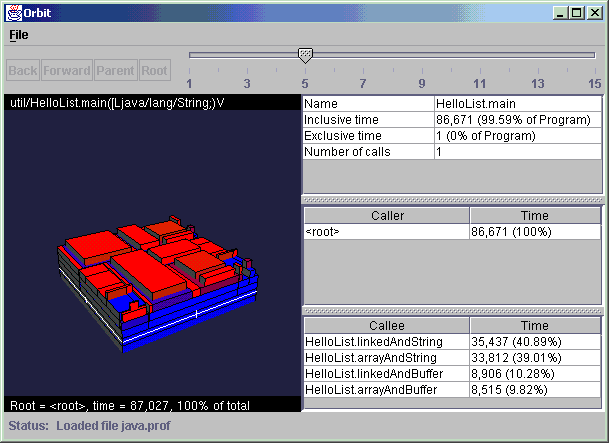
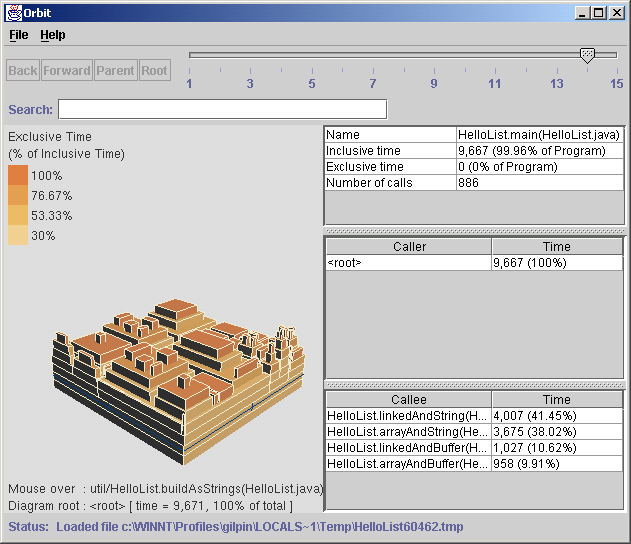
Updated screenshots with new color scheme

diff --git a/prophit/web/index.html b/prophit/web/index.html
@@ -84,9 +84,9 @@ MM_reloadPage(true);
 			
 			    <table name="MainTable" width="100%" bordercolor="#999999"  cellspacing="0" cellpadding="8" border="0">
 					<tr>
-						<td><div id="mainContentLayer">
-						<!-- #BeginEditable "Main%20Content%20Region" -->
-			        <!--table border="0" cellspacing="0" cellpadding="0" bgcolor="eeeeee">
+						<td>
+                <div id="mainContentLayer"> <!-- #BeginEditable "Main%20Content%20Region" --> 
+                  <!--table border="0" cellspacing="0" cellpadding="0" bgcolor="eeeeee">
         <tr> 
           <td width="350"><a href="prophIt.jnlp">Get prophIt</a><br>
             <font size="-1">(see <a href="#running_prophIt">Running prophIt</a> first 
@@ -95,57 +95,50 @@ MM_reloadPage(true);
           <td width="107" nowrap><a href="doc.html">Documentation</a></td>
         </tr>
       </table -->
-                    <div class="header">prophIt Overview</div>
-
-                      <blockquote><b>prophIt</b> is an innovative visualization tool for 
-                        working with Java profiles. prophIt does not generate 
-                        profile data itself. Rather it reads data files generated 
-                        by a <a href="docs/profiler-types.html">supported profiler</a> 
-                        and presents them in a powerful user interface. <br>
-                        <br>
-                      <a href="assets/hello-list.png" target=_blank><img src="assets/hello-list.png" align="center" ></a> 
-                      </blockquote>
-
-                      <div class="header"><a name="running_prophIt"> Running prophIt</a></div>
-                      <h4>Runtime Environment</h4>
-                      prophIt is implemented using the Java <a href="http://java.sun.com/products/jfc/" target=_blank>Swing</a> 
-                      GUI library, using the <a href="http://www.jausoft.com/gl4java/" target=_blank>GL4Java</a> 
-                      Java binding to <a href="http://www.opengl.org" target=_blank>OpenGL</a> 
-                      to render graphics-intensive parts of the UI. Windows is 
-                      the only currently supported platform, but OpenGL is available 
-                      for other platforms as well and prophIt will be supported 
-                      on them as well. 
-                      <h4>JavaWebStart</h4>
-                      prophIt uses <a href="http://java.sun.com/products/javawebstart/" target=_blank>JavaWebStart</a> 
-                      (version 1.0.1_02 or later) for installation and automatic 
-                      upgrades. To run prophIt, first you need to obtain JavaWebStart: 
-                      <ul>
-                        <li>If you already have the JDK 1.4, you already have 
-                          JavaWebStart! It is bundled with the J2SE 
-                        <li>Otherwise, you will need to download and install JavaWebStart 
-                          separately. Go to the <a href="http://java.sun.com/products/javawebstart/" target=_blank>JavaWebStart</a> 
-                          home page and follow the installation instructions there. 
-                      </ul>
-                      <h4>Java Version</h4>
-                      prophIt requires JDK 1.3 or higher. It will run and look 
-                      better with JDK 1.4.0 or higher. <br>
-                        <br>
-
-                 <div class="header">Other Resources</div>
-                      <ul>
-                        <li>Check out <code>java -prof</code> <a href="docs/dash-prof.html#resources">resources</a></li>
-                        <li>Check out <code>hprof</code> <a href="docs/hprof.html#resources">resources</a></li>
-                        <li>Read <a target=_blank href="http://www.amazon.com/exec/obidos/tg/detail/-/0961392142/qid=1032639151/sr=1-1/ref=sr_1_1/102-6857501-9780924?v=glance&s=books">The 
-                          Visual Display of Quantitative Information</a>. It's 
-                          a very thought-provoking read that will have you looking 
-                          at diagrams, maps, and all forms of graphical information 
-                          display in new ways.</li>
-                      </ul>
-                      <p> 
-			  
-			  
-			  <!-- #EndEditable -->
-						</div></td>
+                  <div class="header">prophIt Overview</div>
+                  <blockquote><b>prophIt</b> is an innovative visualization tool 
+                    for working with Java profiles. prophIt does not generate 
+                    profile data itself. Rather it reads data files generated 
+                    by a <a href="docs/profiler-types.html">supported profiler</a> 
+                    and presents them in a powerful user interface. </blockquote>
+                  <img src="assets/hello-list.png" ><p>
+                  <div class="header"><a name="running_prophIt"> Running prophIt</a></div>
+                  <h4>Runtime Environment</h4>
+                  prophIt is implemented using the Java <a href="http://java.sun.com/products/jfc/" target=_blank>Swing</a> 
+                  GUI library, using the <a href="http://www.jausoft.com/gl4java/" target=_blank>GL4Java</a> 
+                  Java binding to <a href="http://www.opengl.org" target=_blank>OpenGL</a> 
+                  to render graphics-intensive parts of the UI. Windows is the 
+                  only currently supported platform, but OpenGL is available for 
+                  other platforms as well and prophIt will be supported on them 
+                  as well. 
+                  <h4>JavaWebStart</h4>
+                  prophIt uses <a href="http://java.sun.com/products/javawebstart/" target=_blank>JavaWebStart</a> 
+                  (version 1.0.1_02 or later) for installation and automatic upgrades. 
+                  To run prophIt, first you need to obtain JavaWebStart: 
+                  <ul>
+                    <li>If you already have the JDK 1.4, you already have JavaWebStart! 
+                      It is bundled with the J2SE 
+                    <li>Otherwise, you will need to download and install JavaWebStart 
+                      separately. Go to the <a href="http://java.sun.com/products/javawebstart/" target=_blank>JavaWebStart</a> 
+                      home page and follow the installation instructions there. 
+                  </ul>
+                  <h4>Java Version</h4>
+                  prophIt requires JDK 1.3 or higher. It will run and look better 
+                  with JDK 1.4.0 or higher. <br>
+                  <br>
+                  <div class="header">Other Resources</div>
+                  <ul>
+                    <li>Check out <code>java -prof</code> <a href="docs/dash-prof.html#resources">resources</a></li>
+                    <li>Check out <code>hprof</code> <a href="docs/hprof.html#resources">resources</a></li>
+                    <li>Read <a target=_blank href="http://www.amazon.com/exec/obidos/tg/detail/-/0961392142/qid=1032639151/sr=1-1/ref=sr_1_1/102-6857501-9780924?v=glance&s=books">The 
+                      Visual Display of Quantitative Information</a>. It's a very 
+                      thought-provoking read that will have you looking at diagrams, 
+                      maps, and all forms of graphical information display in 
+                      new ways.</li>
+                  </ul>
+                  <p> 
+                  <!-- #EndEditable --> </div>
+              </td>
 					</tr>
 				</table>
 				<table width="100%" border="0" cellspacing="0" cellpadding="0">

diff --git a/prophit/web/docs/hsqldb-hprof-sample.html b/prophit/web/docs/hsqldb-hprof-sample.html
@@ -102,7 +102,7 @@ MM_reloadPage(true);
                       <td> 
                         <table align="right" border="0" cellspacing="2">
                           <tr> 
-                            <td><img src="../assets/processDelete.png" /></td>
+                            <td><img src="../assets/log-runScript.png" /></td>
                           </tr>
                           <tr>
                             <td align="center">Screenshot highlighting the <code>processDelete</code> 
